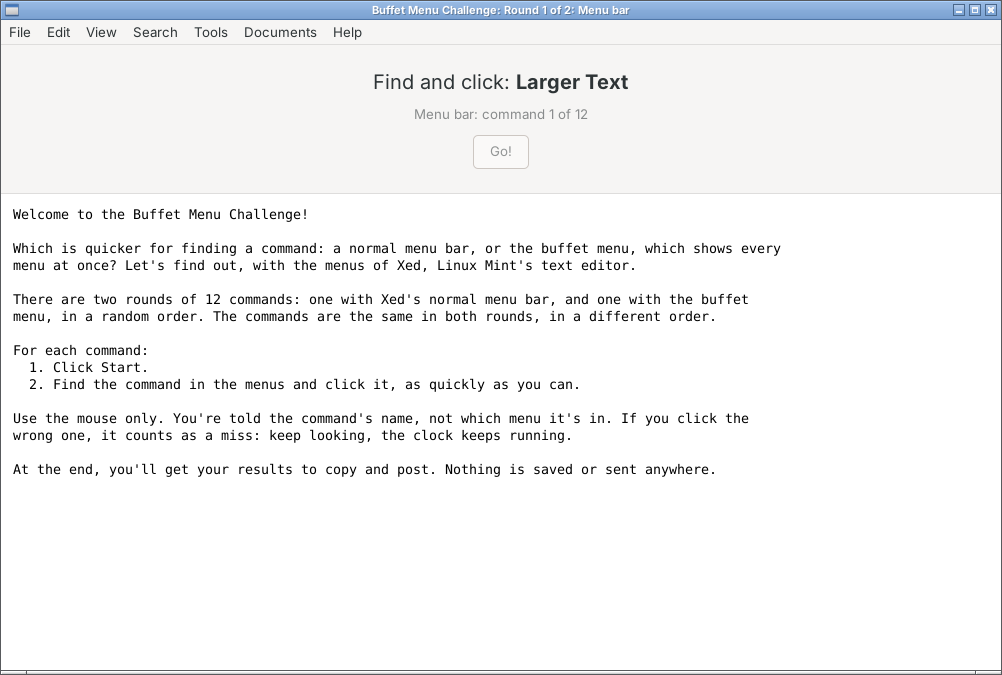
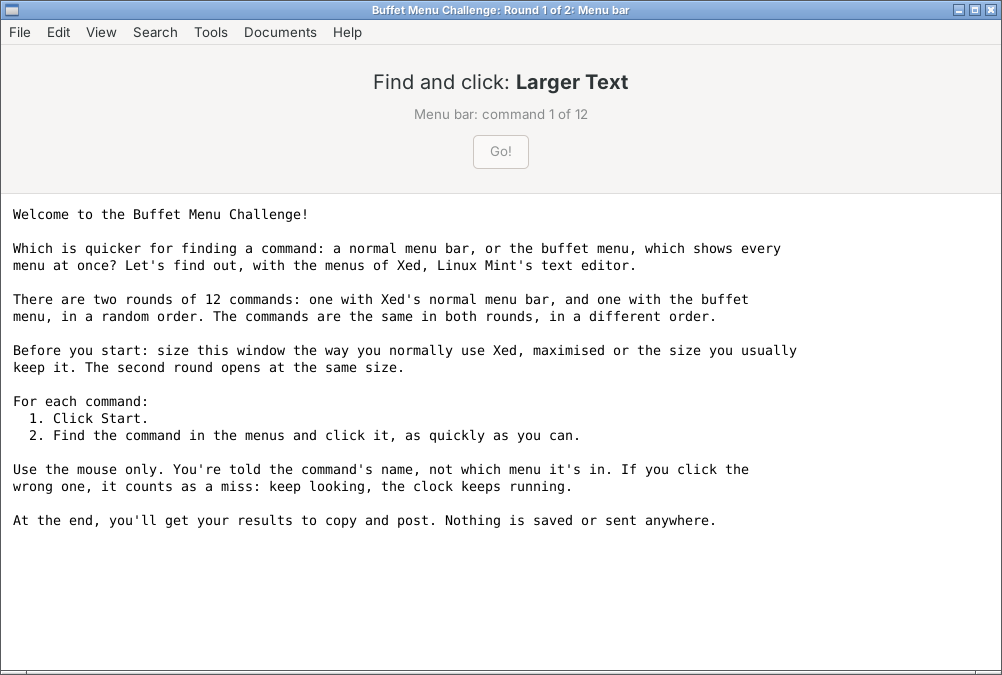
Ask players to size the challenge window as they use Xed
Round 2 opens at the size round 1 had, or maximised if round 1 was, and
the results say which. The experimental support for other applications
(buffet_remote.py) is left out for now: it needs a desktop keyboard
shortcut, and this is for the challenge.

Claude-Session: https://claude.ai/code/session_01DkhEE9aFt1mzuST31iDkaL

Changed region(s): [[0.0, 0.4978, 0.8044, 0.6533], [0.0, 0.6844, 0.7425, 0.7778], [0.6806, 0.5911, 0.7116, 0.6222]]

diff --git a/buffet_challenge.py b/buffet_challenge.py
@@ -47,6 +47,9 @@ menu at once? Let's find out, with the menus of Xed, Linux Mint's text editor.
 There are two rounds of {len(TASKS)} commands: one with Xed's normal menu bar, and one with the buffet
 menu, in a random order. The commands are the same in both rounds, in a different order.
 
+Before you start: size this window the way you normally use Xed, maximised or the size you usually
+keep it. The second round opens at the same size.
+
 For each command:
   1. Click Start.
   2. Find the command in the menus and click it, as quickly as you can.
@@ -82,14 +85,18 @@ class Challenge:
         self.window = None
         self.buffet_layout = "its starting layout"
         self.geometry = None   # where the first window was, so the second one is in the same place
+        self.maximized = False
         self.show_round(0)
 
     def show_round(self, index):
         if self.window is not None:
             self.geometry = self.window.get_position() + self.window.get_size()
+            self.maximized = self.window.is_maximized()
             self.window.destroy()
         self.window = ChallengeWindow(self, self.order[index], index)
-        if self.geometry:
+        if self.maximized:
+            self.window.maximize()
+        elif self.geometry:
             x, y, width, height = self.geometry
             self.window.move(x, y)
             self.window.resize(width, height)
@@ -131,7 +138,8 @@ class Challenge:
         monitor = Gdk.Display.get_default().get_monitor_at_window(self.window.get_window())
         screen = monitor.get_geometry()
         width, height = self.window.get_size()
-        lines += ["", f"Screen {screen.width}×{screen.height}, window {width}×{height}, "
+        window = "maximised" if self.window.is_maximized() else f"{width}×{height}"
+        lines += ["", f"Screen {screen.width}×{screen.height}, window {window}, "
                       f"buffet menu in {self.buffet_layout}"]
         return "\n".join(lines)
 

diff --git a/README.md b/README.md
@@ -24,7 +24,9 @@ random order. It takes about 2 minutes, with the mouse only.
    ```bash
    python3 buffet_challenge.py
    ```
-3. At the end, click **Copy results** and paste them where you were asked to share them.
+3. **Before you start, size the window the way you normally use Xed**: maximised, or the size you
+   usually keep it. The second round opens at the same size.
+4. At the end, click **Copy results** and paste them where you were asked to share them.
 
 The menus don't do anything: they're only for finding. Nothing is saved, nothing is installed, and
 nothing is sent anywhere. It doesn't need administrator rights. You can read the code first.
@@ -59,23 +61,6 @@ arrow keys move across the columns. The status line shows how long it took to ch
 ![The preferences](screenshots/preferences.png)
 
 When the menus are too tall for the screen, the menu scrolls.
-
-## Other applications (experimental)
-
-`buffet_remote.py` shows the menus of other GTK3 applications as a Buffet menu, without changing them. It
-uses `appmenu-gtk-module`, the GTK module that global menu panels use, to read their menu bar:
-
-```bash
-sudo apt install appmenu-gtk3-module
-python3 buffet_remote.py --registrar &   # hides the menu bars of the applications started with the module
-GTK_MODULES=appmenu-gtk-module xed &     # start an application with the module
-python3 buffet_remote.py                 # show the active window's menus: give this a keyboard shortcut
-```
-
-It has been tried with Xed, GIMP 3, Inkscape 1.x, Code::Blocks and Xcalculator, on X11. Other
-applications with a GTK3 menu bar should work too.
-Inkscape doesn't send its keyboard shortcuts with its menus, so they don't show. `buffet_remote.py --dump`
-prints what the active window sends.
 
 ## License
 
